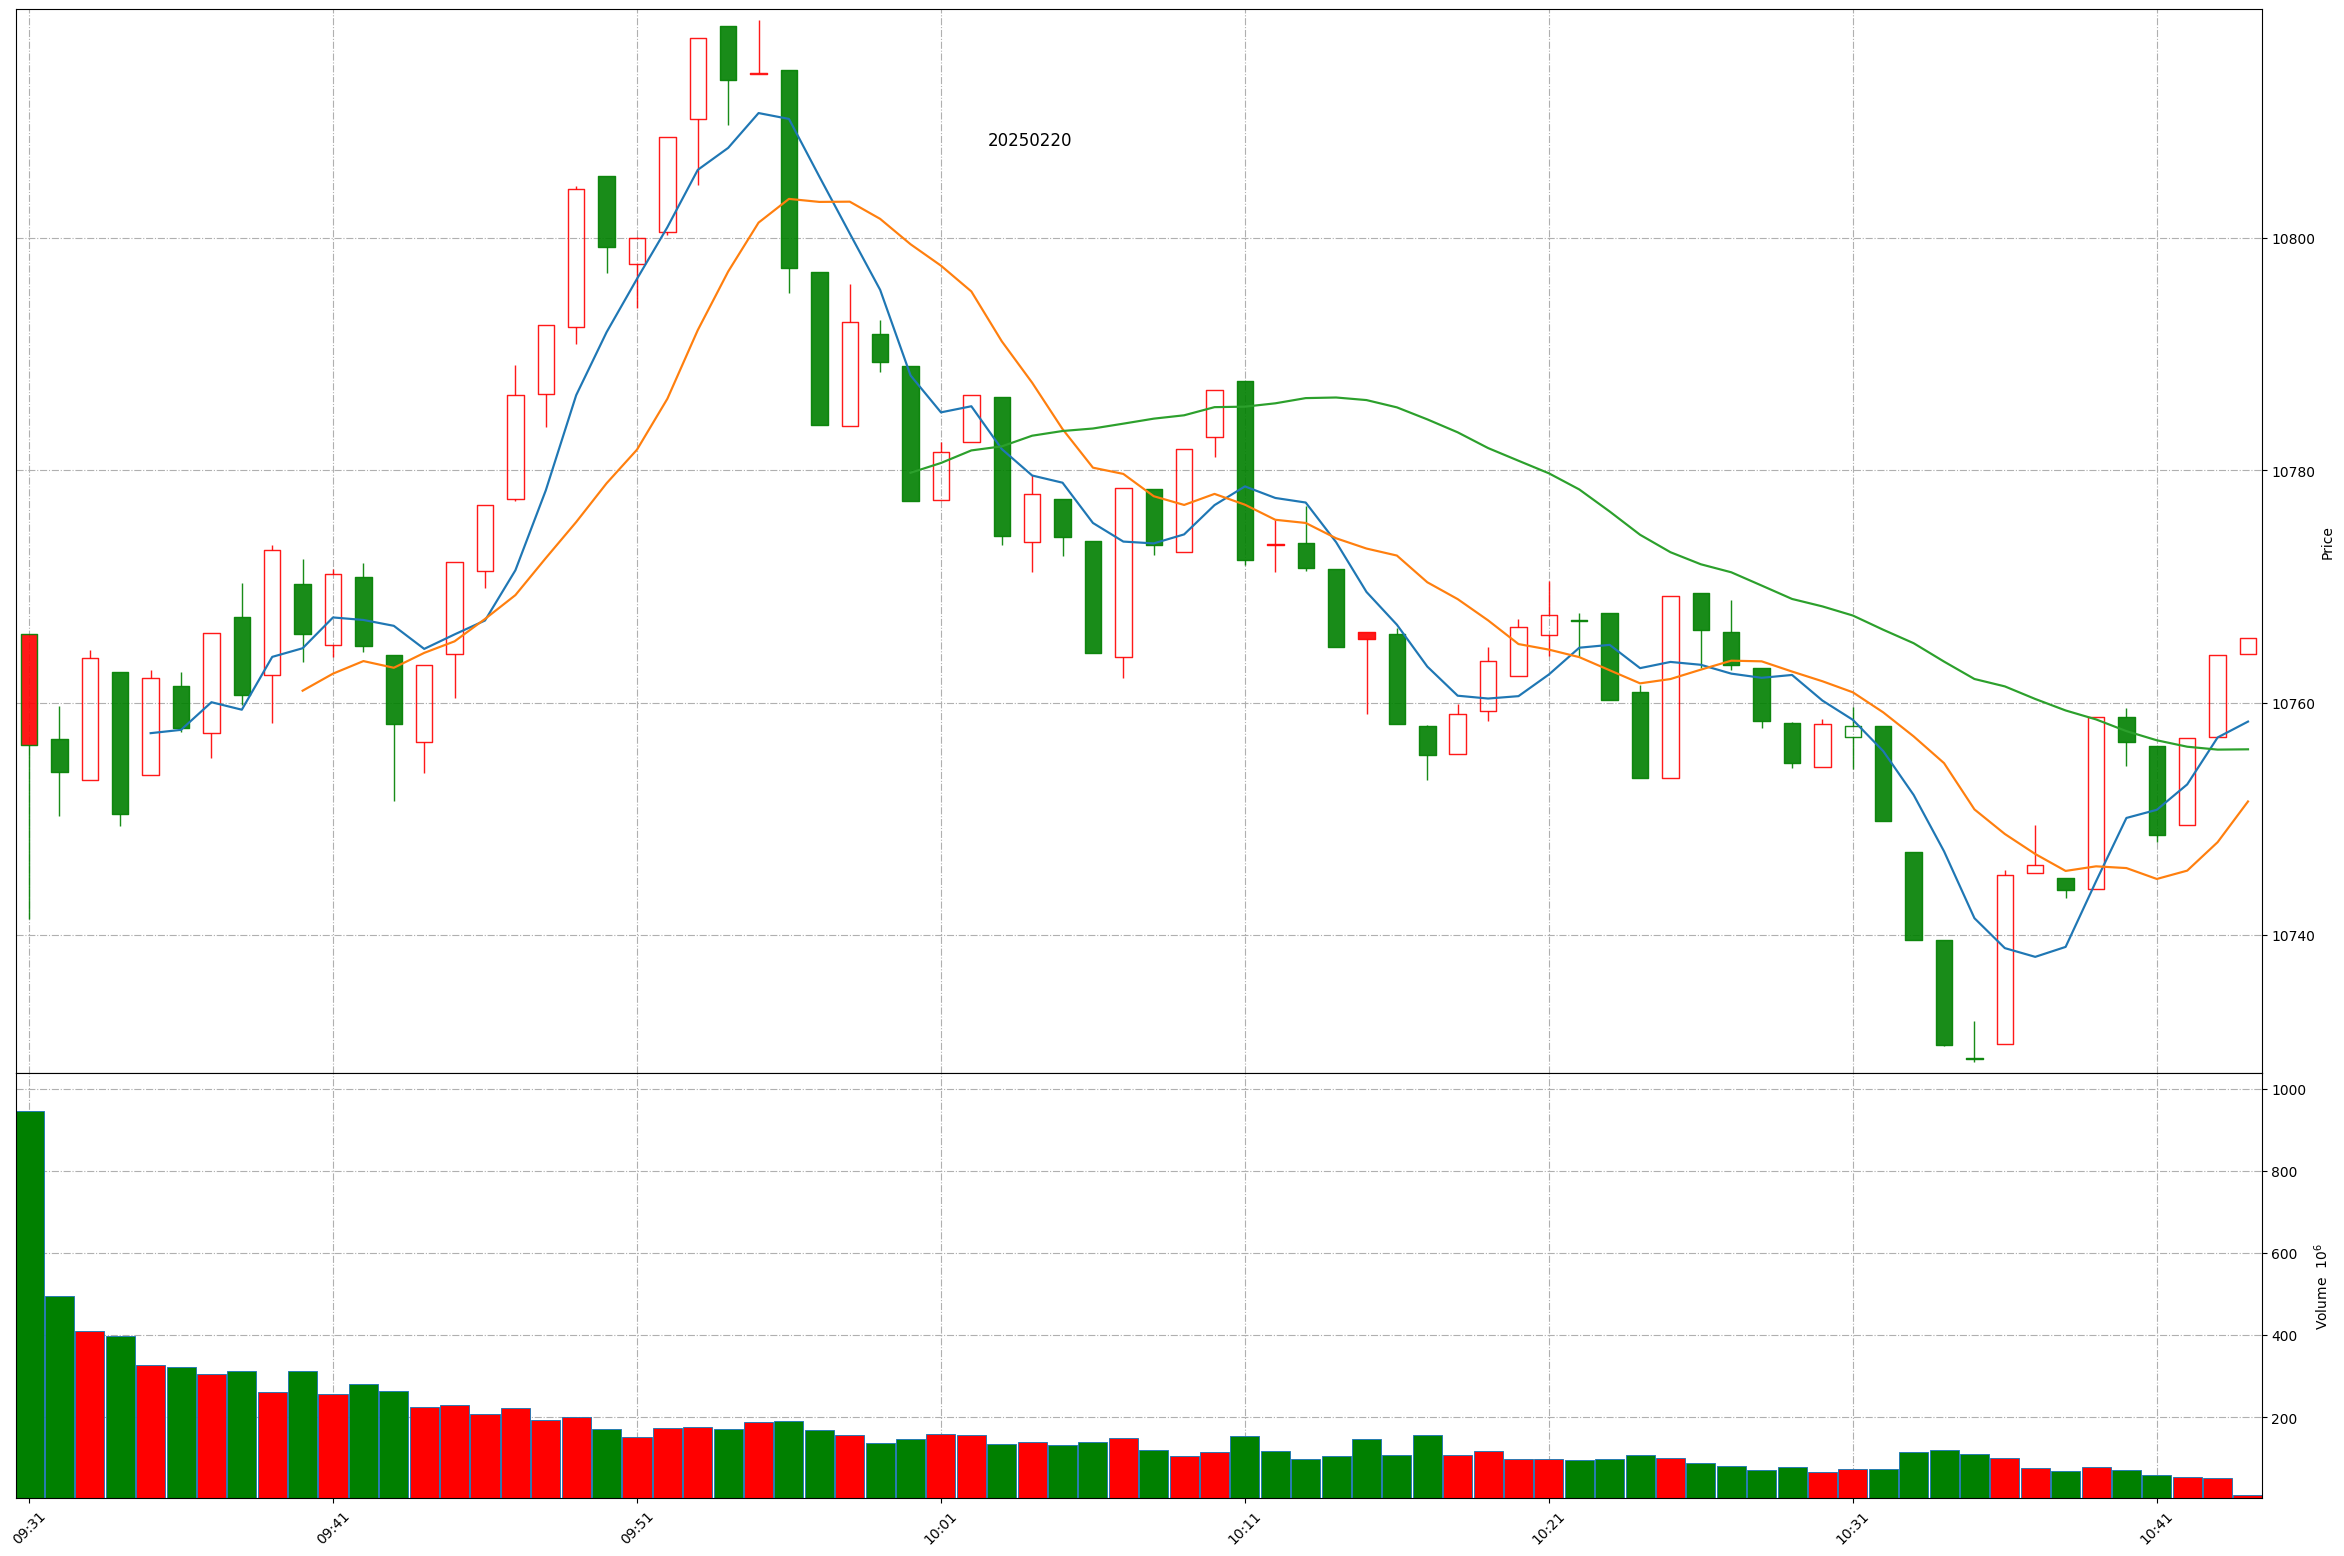
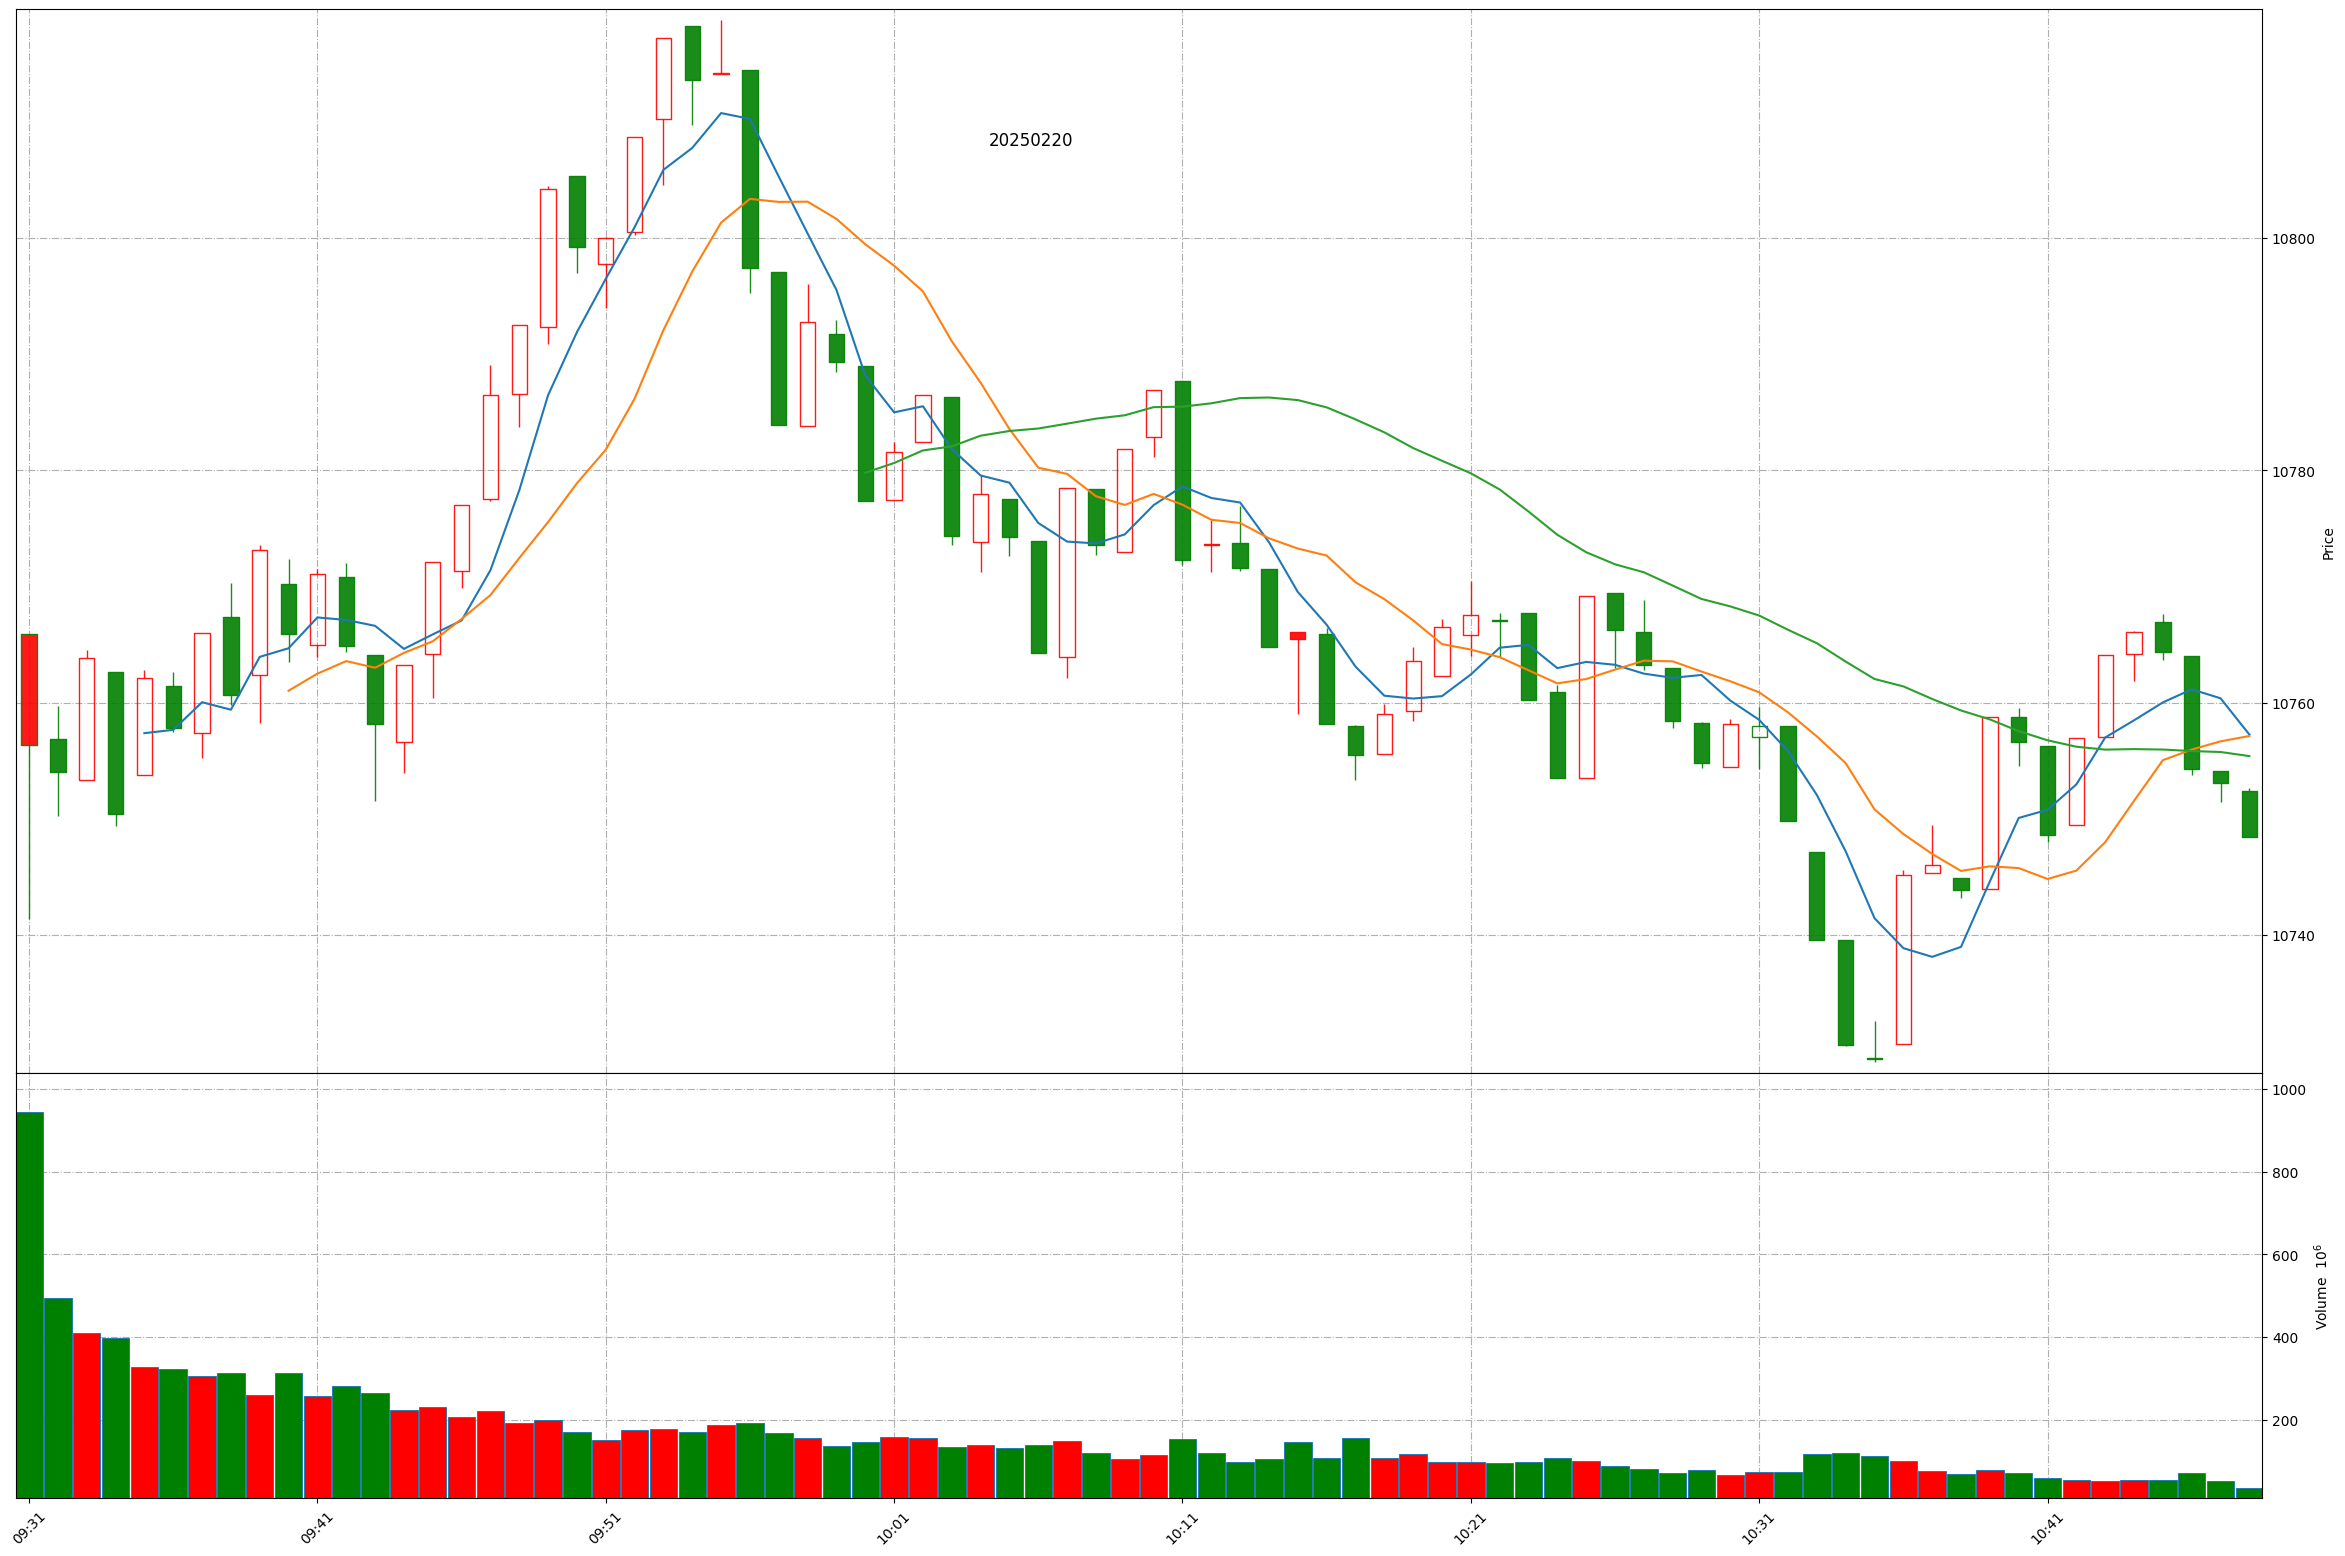
Github action update at 2025-02-20 10:47:36.

diff --git a/README.md b/README.md
@@ -1,11 +1,11 @@
 
 # Daily-A-share-market-quotes 每日 A 股指数（5min 更新）- 20250220
 
-### 上证指数 20250220 10:43
+### 上证指数 20250220 10:47
 ![](./fig/2025/2/20250220-sh000001.png)
 
-### 深证成指 20250220 10:43
+### 深证成指 20250220 10:47
 ![](./fig/2025/2/20250220-sz399001.png)
 
-### 北证50 20250220 10:43
+### 北证50 20250220 10:47
 ![](./fig/2025/2/20250220-bj899050.png)
